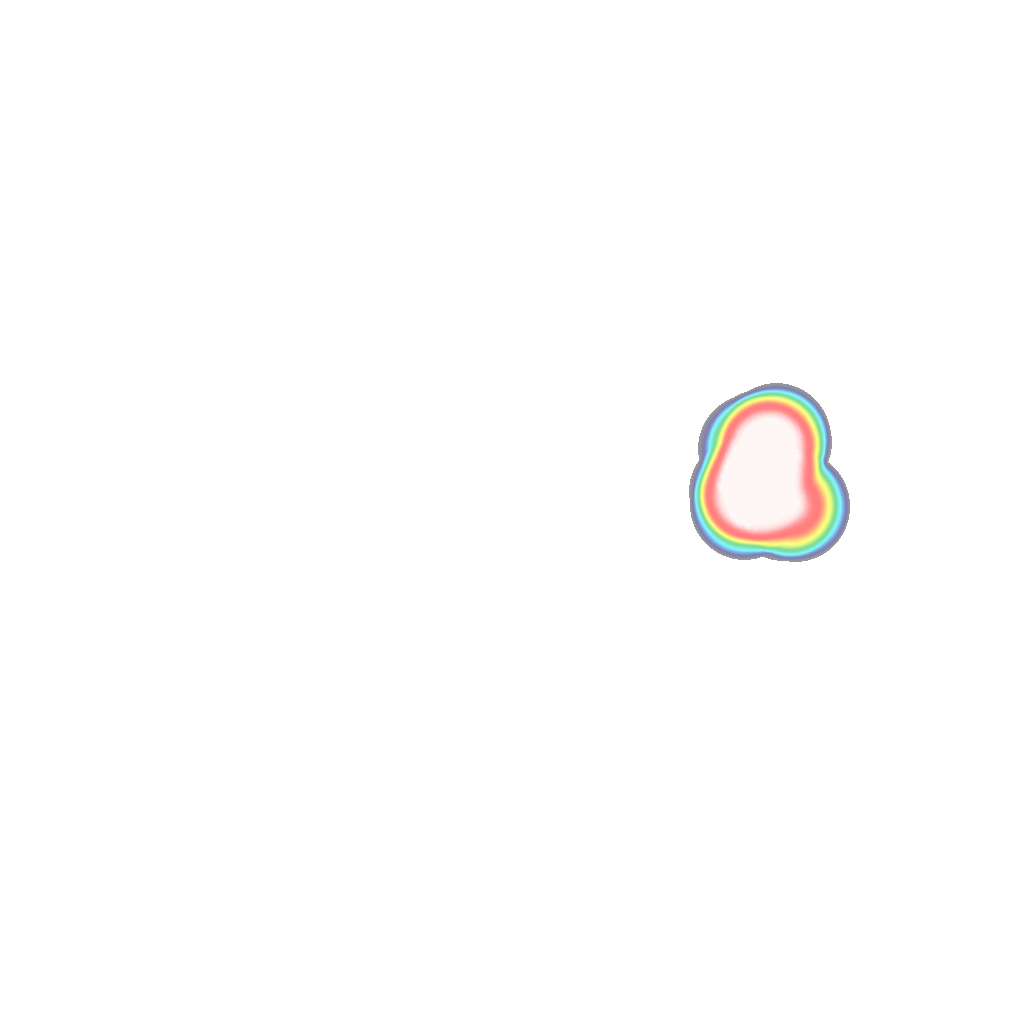
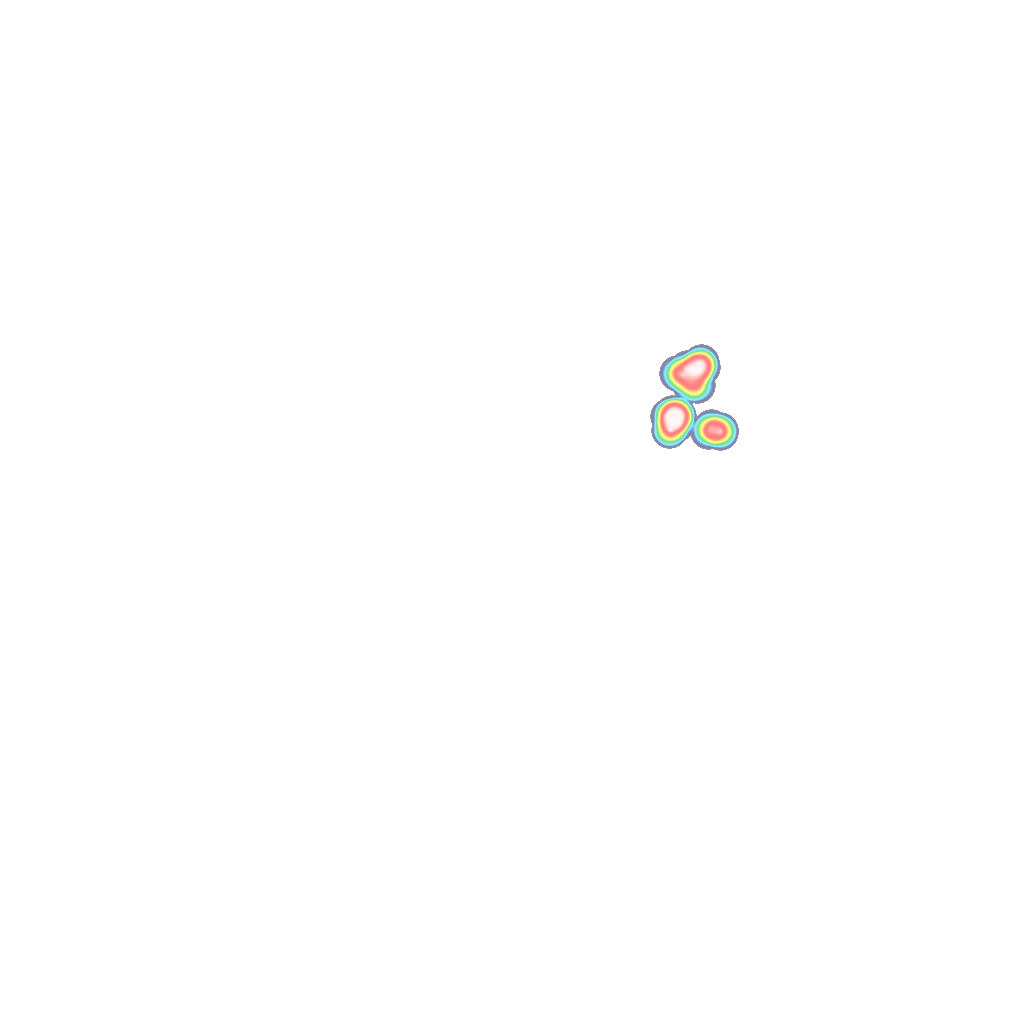
ok, heatmaps are going live.

Changed region(s): [[0.625, 0.3125, 0.8438, 0.5625]]

diff --git a/mammals/media/js/general_map.js b/mammals/media/js/general_map.js
@@ -8,15 +8,10 @@ function general_map_marker (name, where, map) {
 }
 
 var markers = []
-
 var the_map; // TODO remove
 function addSimpleMap(mapInstance) {
     the_map = mapInstance
- 
     map_data = JSON.parse(jQuery('#map_data')[0].innerHTML);
-    
-    
-    
     for (var i = 0; i < map_data.length; i++) {
         if (map_data[i]['where'][0] != 0) {
 	        markers.push ( general_map_marker (map_data[i]['name'], map_data[i]['where'], mapInstance ));
@@ -24,33 +19,15 @@ function addSimpleMap(mapInstance) {
     }
     add_heatmap_ground_overlay()
 }
-    
-/*
 
-function add_kml_file ( filename, map ) {
-    map_options = {
-        preserveViewport : true
-        , clickable       : true
-    }
-    
-    console.log (filename);
-    trail_map = new google.maps.KmlLayer(filename , map_options);
-    trail_map.setMap (map);
-    console.log ('done');
-}
-*/
 
 
 function add_heatmap_ground_overlay() {
-
-    // pixels, meters, and lat/lon
-    dx = - 0.0065; //TODO refactor these out.
-    dy =   0.0045;
-    
-    blackrock_north = 41.43000 + dy;
-    blackrock_south = 41.37000 + dy;
-    blackrock_east = -73.98000 + dx;
-    blackrock_west = -74.07000 + dx;
+    //TODO get this from settings.py. These bounds are also repeated in generate_ground_overlay_heatmaps .
+    blackrock_north = 41.43000 ;
+    blackrock_south = 41.37000 ;
+    blackrock_east = -73.98000 ;
+    blackrock_west = -74.07000 ;
     
     the_bounds = new google.maps.LatLngBounds (
         new google.maps.LatLng( blackrock_south, blackrock_west),

diff --git a/templates/mammals/habitat_map.html b/templates/mammals/habitat_map.html
@@ -8,5 +8,5 @@
     {%endif %}
 {%endblock%}
 
-{% block heatmap_image%}http://tiur.ccnmtl.columbia.edu:54321/mammals/media/images/heatmaps/habitats/{{habitat.id}}.png{%endblock%}
+{% block heatmap_image%}http://blackrock.ccnmtl.columbia.edu/mammals/media/images/heatmaps/habitats/{{habitat.id}}.png{%endblock%}
 

diff --git a/templates/mammals/species_map.html b/templates/mammals/species_map.html
@@ -8,4 +8,4 @@
     {%endif %}
 {%endblock%}
 
-{% block heatmap_image%}http://tiur.ccnmtl.columbia.edu:54321/mammals/media/images/heatmaps/species/{{species.id}}.png{%endblock%}
+{% block heatmap_image%}http://blackrock.ccnmtl.columbia.edu/mammals/media/images/heatmaps/species/{{species.id}}.png{%endblock%}

diff --git a/templates/mammals/base_map.html b/templates/mammals/base_map.html
@@ -16,6 +16,5 @@
     <div id="map_canvas" style="width: 600px; height: 450px"></div>
 </div>
 <br clear="all" />
-
-<div id = "heatmap_image">{% block heatmap_image%}{%endblock%}</div>
+<div id = "heatmap_image" style="display:none">{% block heatmap_image%}{%endblock%}</div>
 {% endblock %}

diff --git a/mammals/heatmap/heatmap.py b/mammals/heatmap/heatmap.py
@@ -7,34 +7,18 @@ import sys
 import colorschemes
 
 
-
-
 class Heatmap:
     """
     Create heatmaps from a list of 2D coordinates.
     
-    Heatmap requires the Python Imaging Library. The way I'm using PIL is
-    almost atrocious.  I'm embarassed, but it works, albeit slowly.
-
-    Coordinates autoscale to fit within the image dimensions, so if there are 
-    anomalies or outliers in your dataset, results won't be what you expect. 
-
-    The output is a PNG with transparent background, suitable alone or to overlay another
-    image or such.  You can also save a KML file to use in Google Maps if x/y coordinates
-    are lat/long coordinates. Make your own wardriving maps or visualize the footprint of 
-    your wireless network.  
- 
-    Most of the magic starts in heatmap(), see below for description of that function.
+    Based on http://jjguy.com/heatmap/, but adapted to the situation here; no need for KML; instead we're just doing a simple ground overlay in Google Maps.
     """
     def __init__(self):
         self.minXY = ()
         self.maxXY = ()
 
-    def heatmap(self, points, fout, dotsize=150, opacity=128, size=(1024,1024), scheme="classic"):
+    def heatmap(self, points, fout, dotsize=50,   opacity=128, size=(1024,1024), scheme="classic"):
     
-        #print 'points is'
-        #print points
-        #print "**** hi heatmap here"
     
         """
         points  -> an iterable list of tuples, where the contents are the 
@@ -65,21 +49,11 @@ class Heatmap:
             tmp = "Unknown color scheme: %s.  Available schemes: %s"  % (scheme, self.schemes())                           
             raise Exception(tmp)
 
-        #self.minXY, self.maxXY = self._ranges(points)
-        
-            
-        #north = 41.41000 ## these aren't right
-        #south = 41.39000 
-        #east = -74.00000
-        #west = -74.03000
-            
+        #TODO: get this from settings.py
         blackrock_north = 41.43000;
         blackrock_south = 41.37000;
         blackrock_east = -73.98000;
         blackrock_west = -74.07000;
-            
- 
- 
                 
         self.minXY, self.maxXY = ((blackrock_south, blackrock_east), (blackrock_north, blackrock_west))
         self.pixels_per_degree_lat =  self.size[0] / abs(blackrock_north - blackrock_south)
@@ -87,13 +61,6 @@ class Heatmap:
         
         self.dotwidth_on_map_lat = self.pixels_per_degree_lat / self.dotsize
         self.dotwidth_on_map_lon = self.pixels_per_degree_lon  / self.dotsize 
- 
-        #print "pixels per degree lat ", self.pixels_per_degree_lat
-        #print "pixels per degree lon ", self.pixels_per_degree_lon
-         
-        #print "dotwith on map lat ", self.dotwidth_on_map_lat
-        #print "dotwith on map lon ", self.dotwidth_on_map_lon
-        
         
         dot = self._buildDot(self.dotsize)
 
@@ -102,16 +69,9 @@ class Heatmap:
         
         for y, x in points: # we're assuming lat /lon coordinates.
             
-            #print "latitude  is ", y
-            #print "longitude is ", x
-            #print 'becomes'
-            #print self._translate([y,x])
-            
-            
             tmp = Image.new('RGBA', self.size, 'white')
             tmp.paste( dot, self._translate([y,x]) )
             img = ImageChops.multiply(img, tmp)
-
 
         colors = colorschemes.schemes[scheme]        
         self._colorize(img, colors)
@@ -157,28 +117,20 @@ class Heatmap:
     def _translate(self, point):
         """ translates x,y coordinates from data set into 
         pixel offsets."""
-        #import pdb
-        #pdb.set_trace()
         y = point[0]
         x = point[1]
         #horizontal and vertical ranges for_pixel_centers:
         vrange = float(self.maxXY[0] - self.minXY[0])
         hrange = float(self.maxXY[1] - self.minXY[1])
 
-        #print 'hrange is ' , hrange
-        #print 'vrange is ' , vrange
-
         #normalize points into range (0 - 1)...
         y = (y - self.minXY[0]) / vrange
         x = (x - self.minXY[1]) / hrange
 
         #...and the map into our image size...
-        pixel_height = self.size[0] #- self.dotwidth_on_map_lon
-        pixel_width =  self.size[1] #- self.dotwidth_on_map_lat
         
-        
-        y = int((1-y)*pixel_height)
-        x = int((1-x)*pixel_width)
+        y = int((1-y)* self.size[0] - self.dotsize / 2)
+        x = int((1-x)* self.size[1] - self.dotsize / 2)  
         
         return (x, y)
 

diff --git a/mammals/models.py b/mammals/models.py
@@ -12,7 +12,7 @@ from django.contrib.auth.models import User
 from django.utils import simplejson
 from mammals.grid_math import *
 import os
-from blackrock.mammals.management.commands import heatmap
+from blackrock.mammals.heatmap import heatmap
 
 
 class GridPoint(models.Model):
@@ -93,8 +93,8 @@ class Species(models.Model):
         return dir(self)
 
 
-    def kml_heatmap(self):
-        """returns a KML file of the distribution of this habitat in the forest"""
+    def ground_overlay_heatmap(self):
+        """returns a PNG of the distribution of this habitat in the forest"""
         pts = []
         animals = Animal.objects.filter(species=self)
         for a in animals:
@@ -171,8 +171,8 @@ class Habitat (models.Model):
     def dir(self):
         return dir(self)
     
-    def kml_heatmap(self):
-        """returns a KML file of the distribution of this habitat in the forest"""
+    def ground_overlay_heatmap(self):
+        """returns a png file of the distribution of this habitat in the forest"""
         pts = []
         for p in TrapLocation.objects.filter(habitat=self):
             pts.append ((p.lat(), p.lon()))

diff --git a/mammals/management/commands/generate_ground_overlay_heatmaps.py b/mammals/management/commands/generate_ground_overlay_heatmaps.py
@@ -29,8 +29,13 @@ def test_heatmap():
         (41.41, -74.03)
     ]
     
+    base_path = "mammals/media/kml/test"
     img_test_path    = 'mammals/media/images/heatmaps/'
+    img_mammals_path = 'mammals/media/images/heatmaps/mammals/'
+    img_species_path = 'mammals/media/images/heatmaps/species/'
     
+    
+    print "%stest.png" % img_test_path
     hm = Heatmap()  
     hm.heatmap(the_points, "%stest.png" % img_test_path)
    
